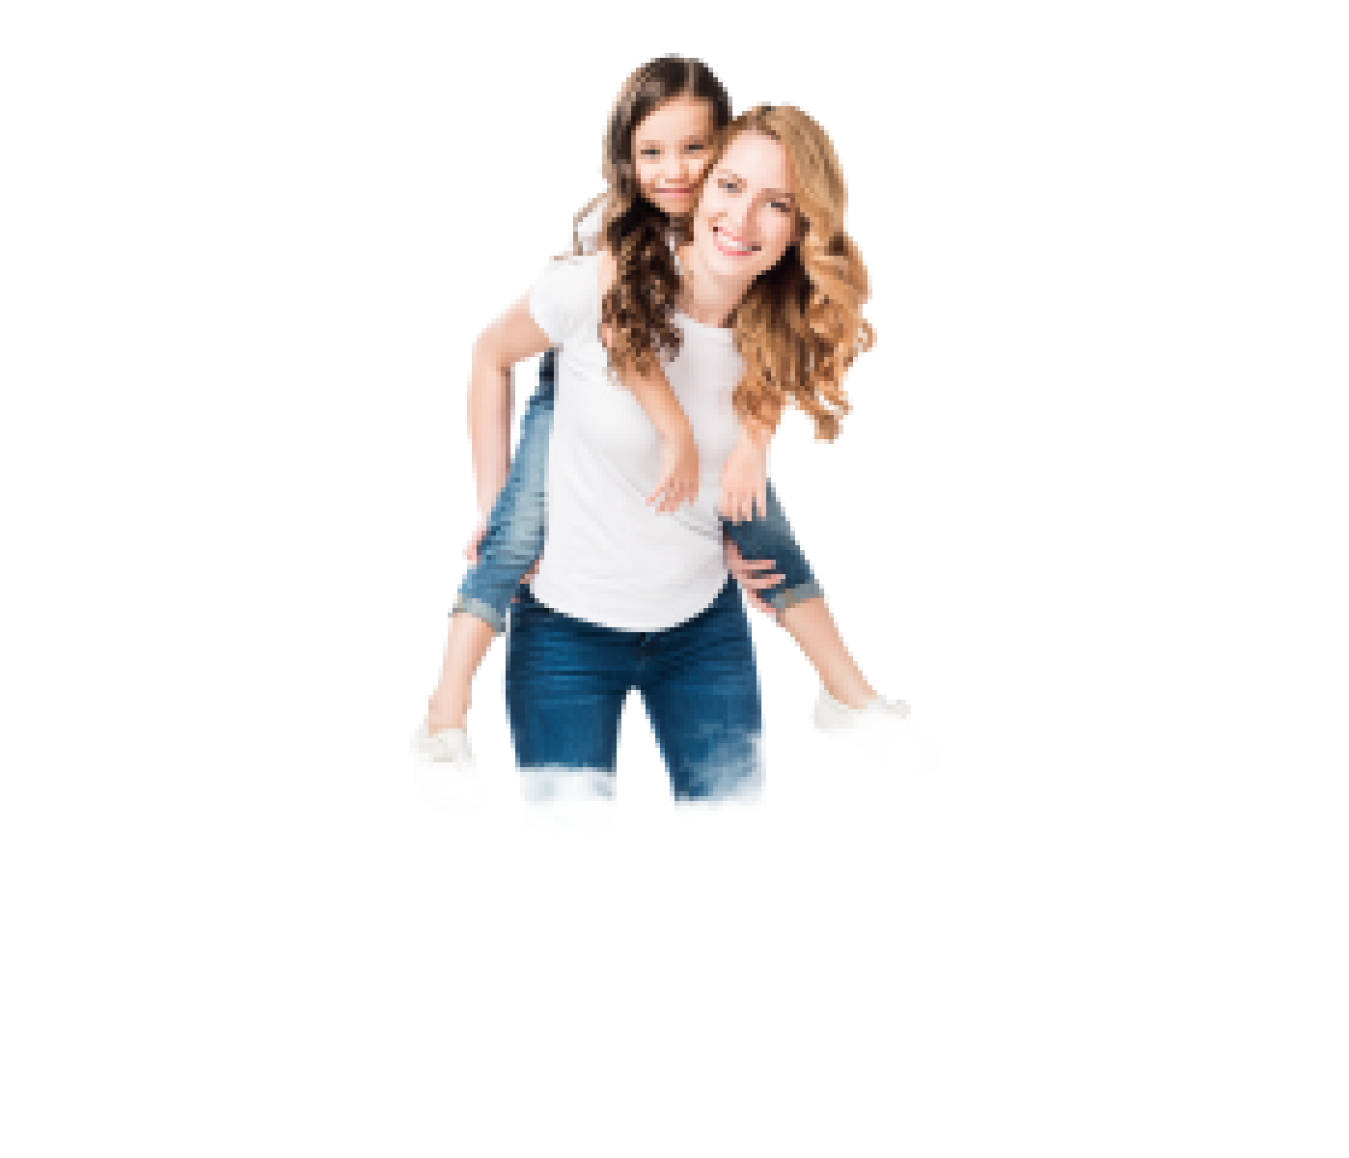
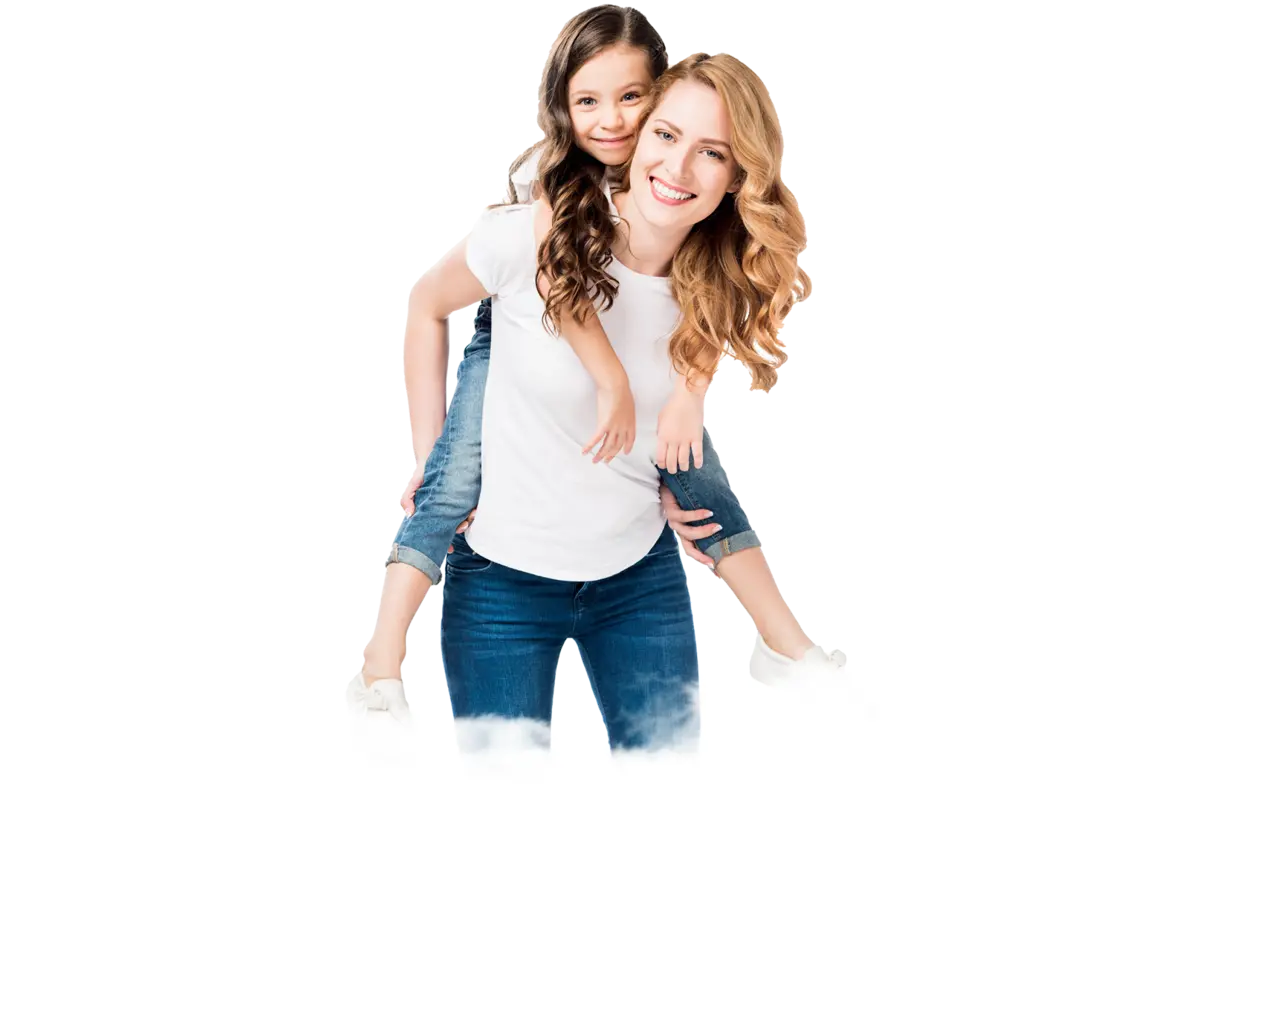
work on progress

Changed region(s): [[0.2806, 0.0, 0.6547, 0.7628]]

diff --git a/src/index.html b/src/index.html
@@ -956,12 +956,12 @@
 						<picture class="mother-and-child-parallax-image__main-image-wrapper">
 							<source
 								type="image/webp"
-								media="(min-width:1920px)"
+								media="(min-width:1024px)"
 								srcset="./images/parallax-image-desktop@1x.webp 1x, ./images/parallax-image-desktop@2x.webp 2x"
 							/>
 							<source
 								type="image/png"
-								media="(min-width:1920px)"
+								media="(min-width:1024px)"
 								srcset="./images/parallax-image-desktop@1x.png 1x, ./images/parallax-image-desktop@2x.png 2x"
 							/>
 							<source
@@ -993,12 +993,12 @@
 						<picture class="mother-and-child-parallax-image__background-image-wrapper">
 							<source
 								type="image/webp"
-								media="(min-width:1920px)"
+								media="(min-width:1024px)"
 								srcset="./images/parallax-background-image-desktop@1x.webp 1x, ./images/parallax-background-image-desktop@2x.webp 2x"
 							/>
 							<source
 								type="image/png"
-								media="(min-width:1920px)"
+								media="(min-width:1024px)"
 								srcset="./images/parallax-background-image-desktop@1x.png 1x, ./images/parallax-background-image-desktop@2x.png 2x"
 							/>
 							<source
@@ -1026,12 +1026,12 @@
 						<picture class="mother-and-child-parallax-image__tree-image-wrapper">
 							<source
 								type="image/webp"
-								media="(min-width:1920px)"
+								media="(min-width:1024px)"
 								srcset="./images/parallax-image-tree-desktop@1x.webp 1x, ./images/parallax-image-tree-desktop@2x.webp 2x"
 							/>
 							<source
 								type="image/png"
-								media="(min-width:1920px)"
+								media="(min-width:1024px)"
 								srcset="./images/parallax-image-tree-desktop@1x.png 1x, ./images/parallax-image-tree-desktop@2x.png 2x"
 							/>
 							<img src="./images/parallax-image-tree-desktop@1x.png" class="mother-and-child-parallax-image__tree-image" alt="" />

diff --git a/src/scss/layout/_delivery-advantages.scss b/src/scss/layout/_delivery-advantages.scss
@@ -14,6 +14,7 @@ $delivery-advantages-section-background-color: var(--color-primary-white);
 }
 
 .delivery-advantages__wrapper {
+	position: relative;
 }
 
 .delivery-advantages__title {
@@ -46,7 +47,26 @@ $delivery-advantages-section-background-color: var(--color-primary-white);
 }
 
 @include media(">=desktop") {
+	.delivery-advantages__content {
+		margin-top: 7.291666666666667vw;
+		display: grid;
+		grid-template-columns: 32.29166666666667vw auto;
+		grid-template-rows: auto;
+		position: absolute;
+		top: 0;
+		left: 0;
+		z-index: 4;
+	}
+
 	.delivery-advantages__advantages-list {
 		@include minimum-size(row-gap, 1.9270833333333335vw);
+		grid-column: 2 / 3;
+	}
+
+	.delivery-advantages__title {
+		grid-column: 2 / 3;
 	}
 }
+
+// Fix everywhere in HTML images 1920 to 1024 picture element
+// also fix all images to normal quality ! Important my images are broken

diff --git a/src/scss/components/_mother-and-child-parallax-image.scss b/src/scss/components/_mother-and-child-parallax-image.scss
@@ -55,7 +55,7 @@ $breakpoints: (
 	.mother-and-child-parallax-image__tree-image-wrapper {
 		display: block;
 		position: absolute;
-		top: 21.09375vw;
+		top: 17vw;
 		left: -61.9rem;
 		width: 60.3125vw;
 		height: auto;
@@ -72,5 +72,8 @@ $breakpoints: (
 	.mother-and-child-parallax-image__background-image-wrapper {
 		width: 100vw;
 		height: auto;
+		// position: absolute;
+		// top: 0;
+		// left: 0;
 	}
 }
